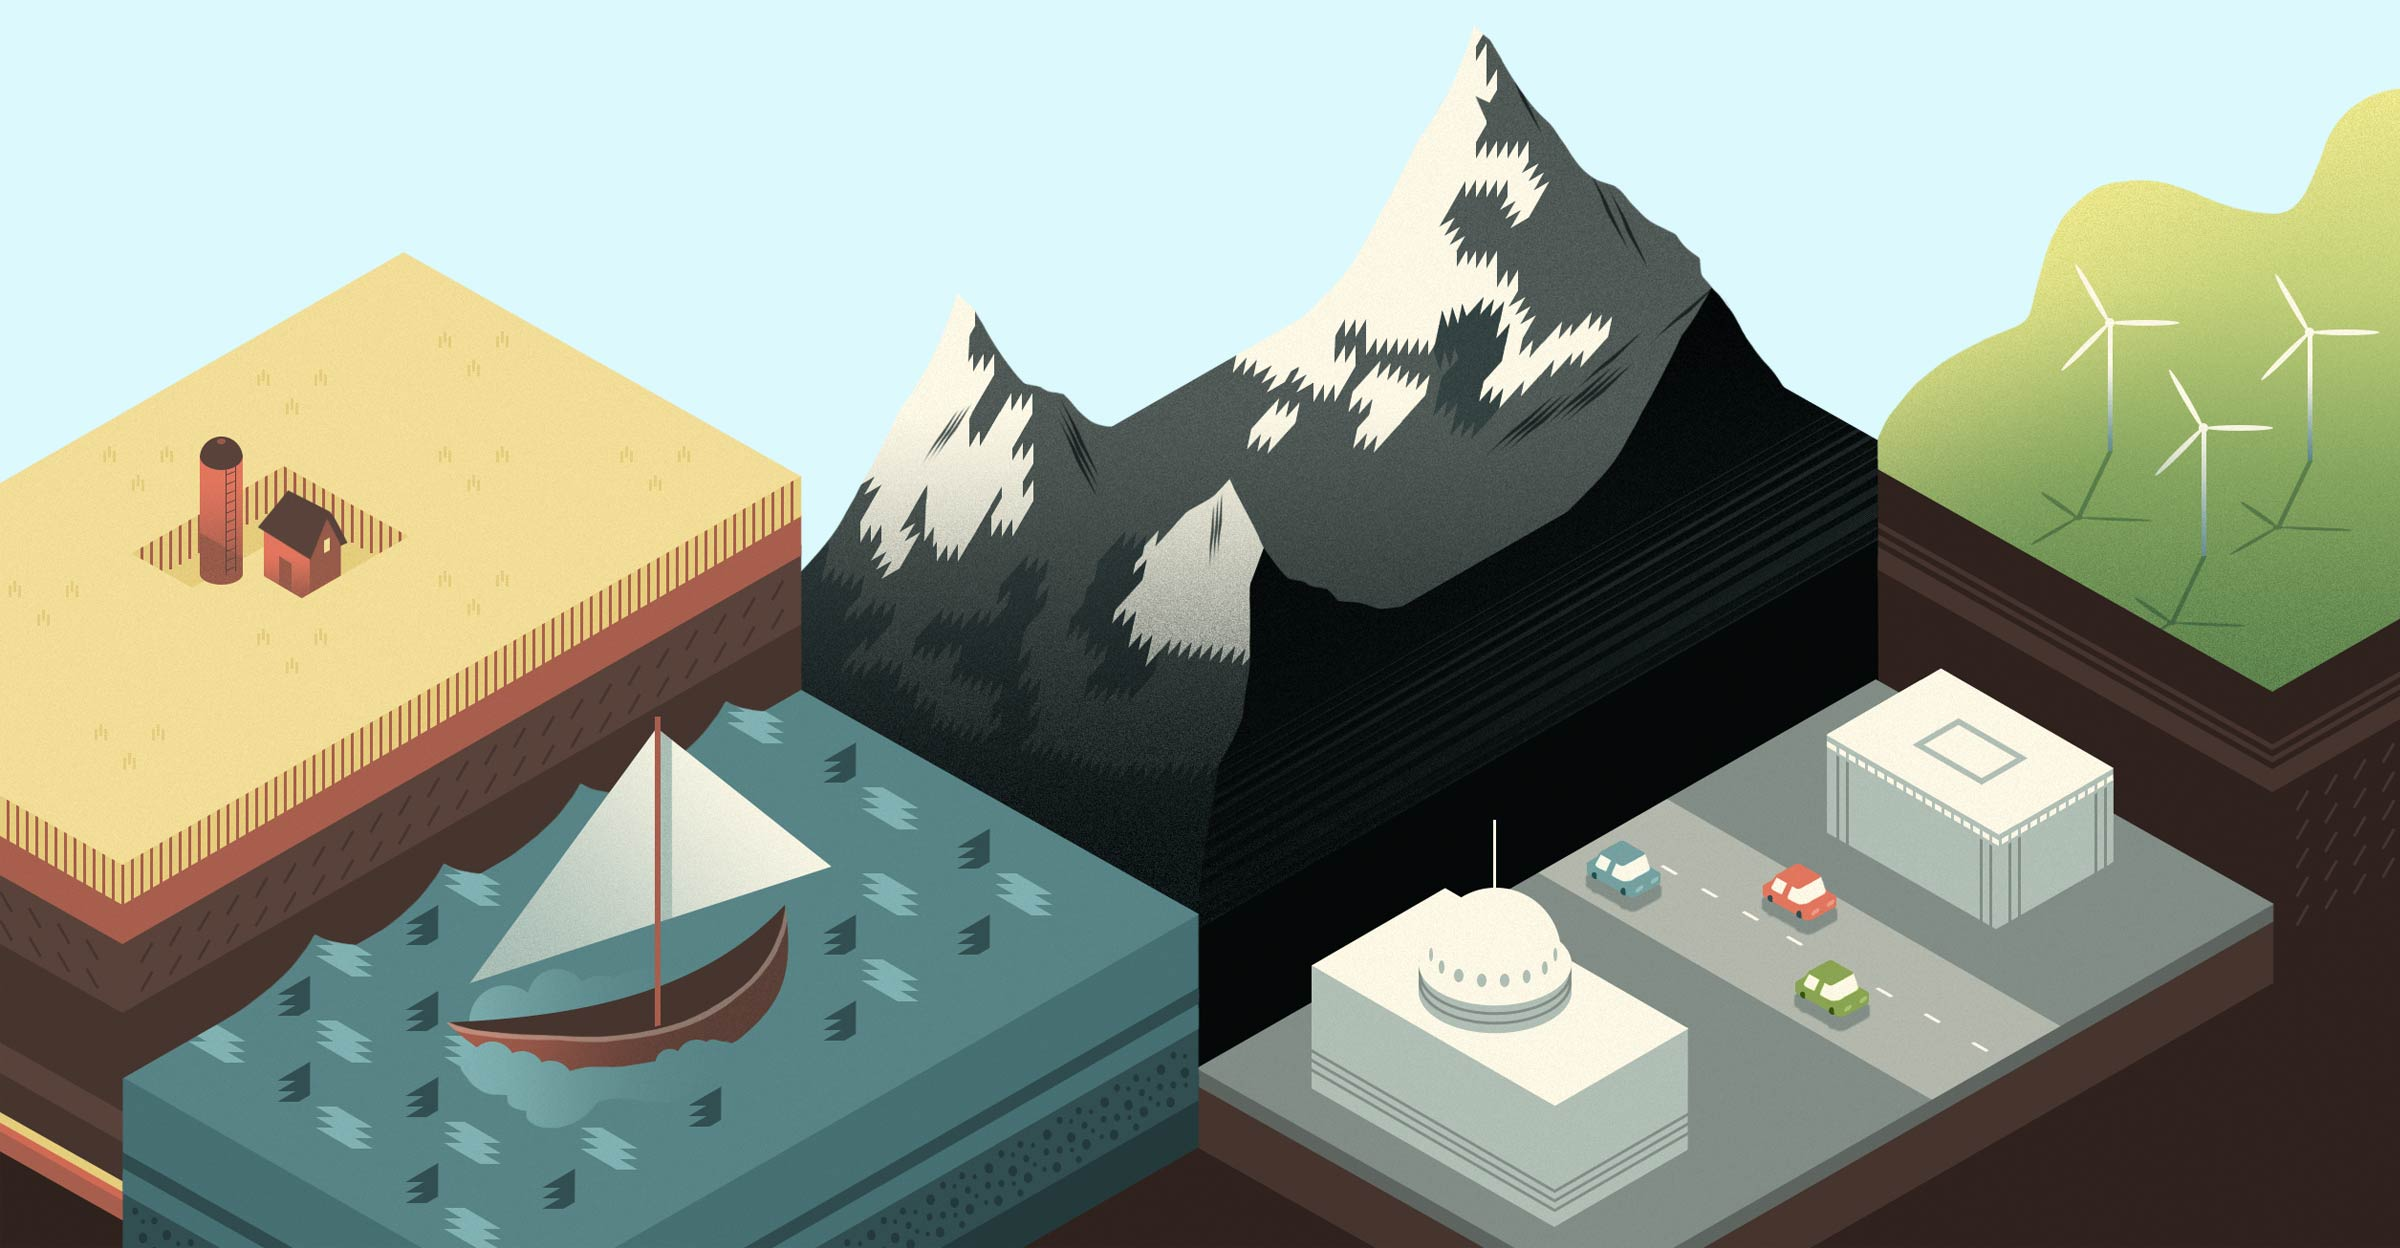
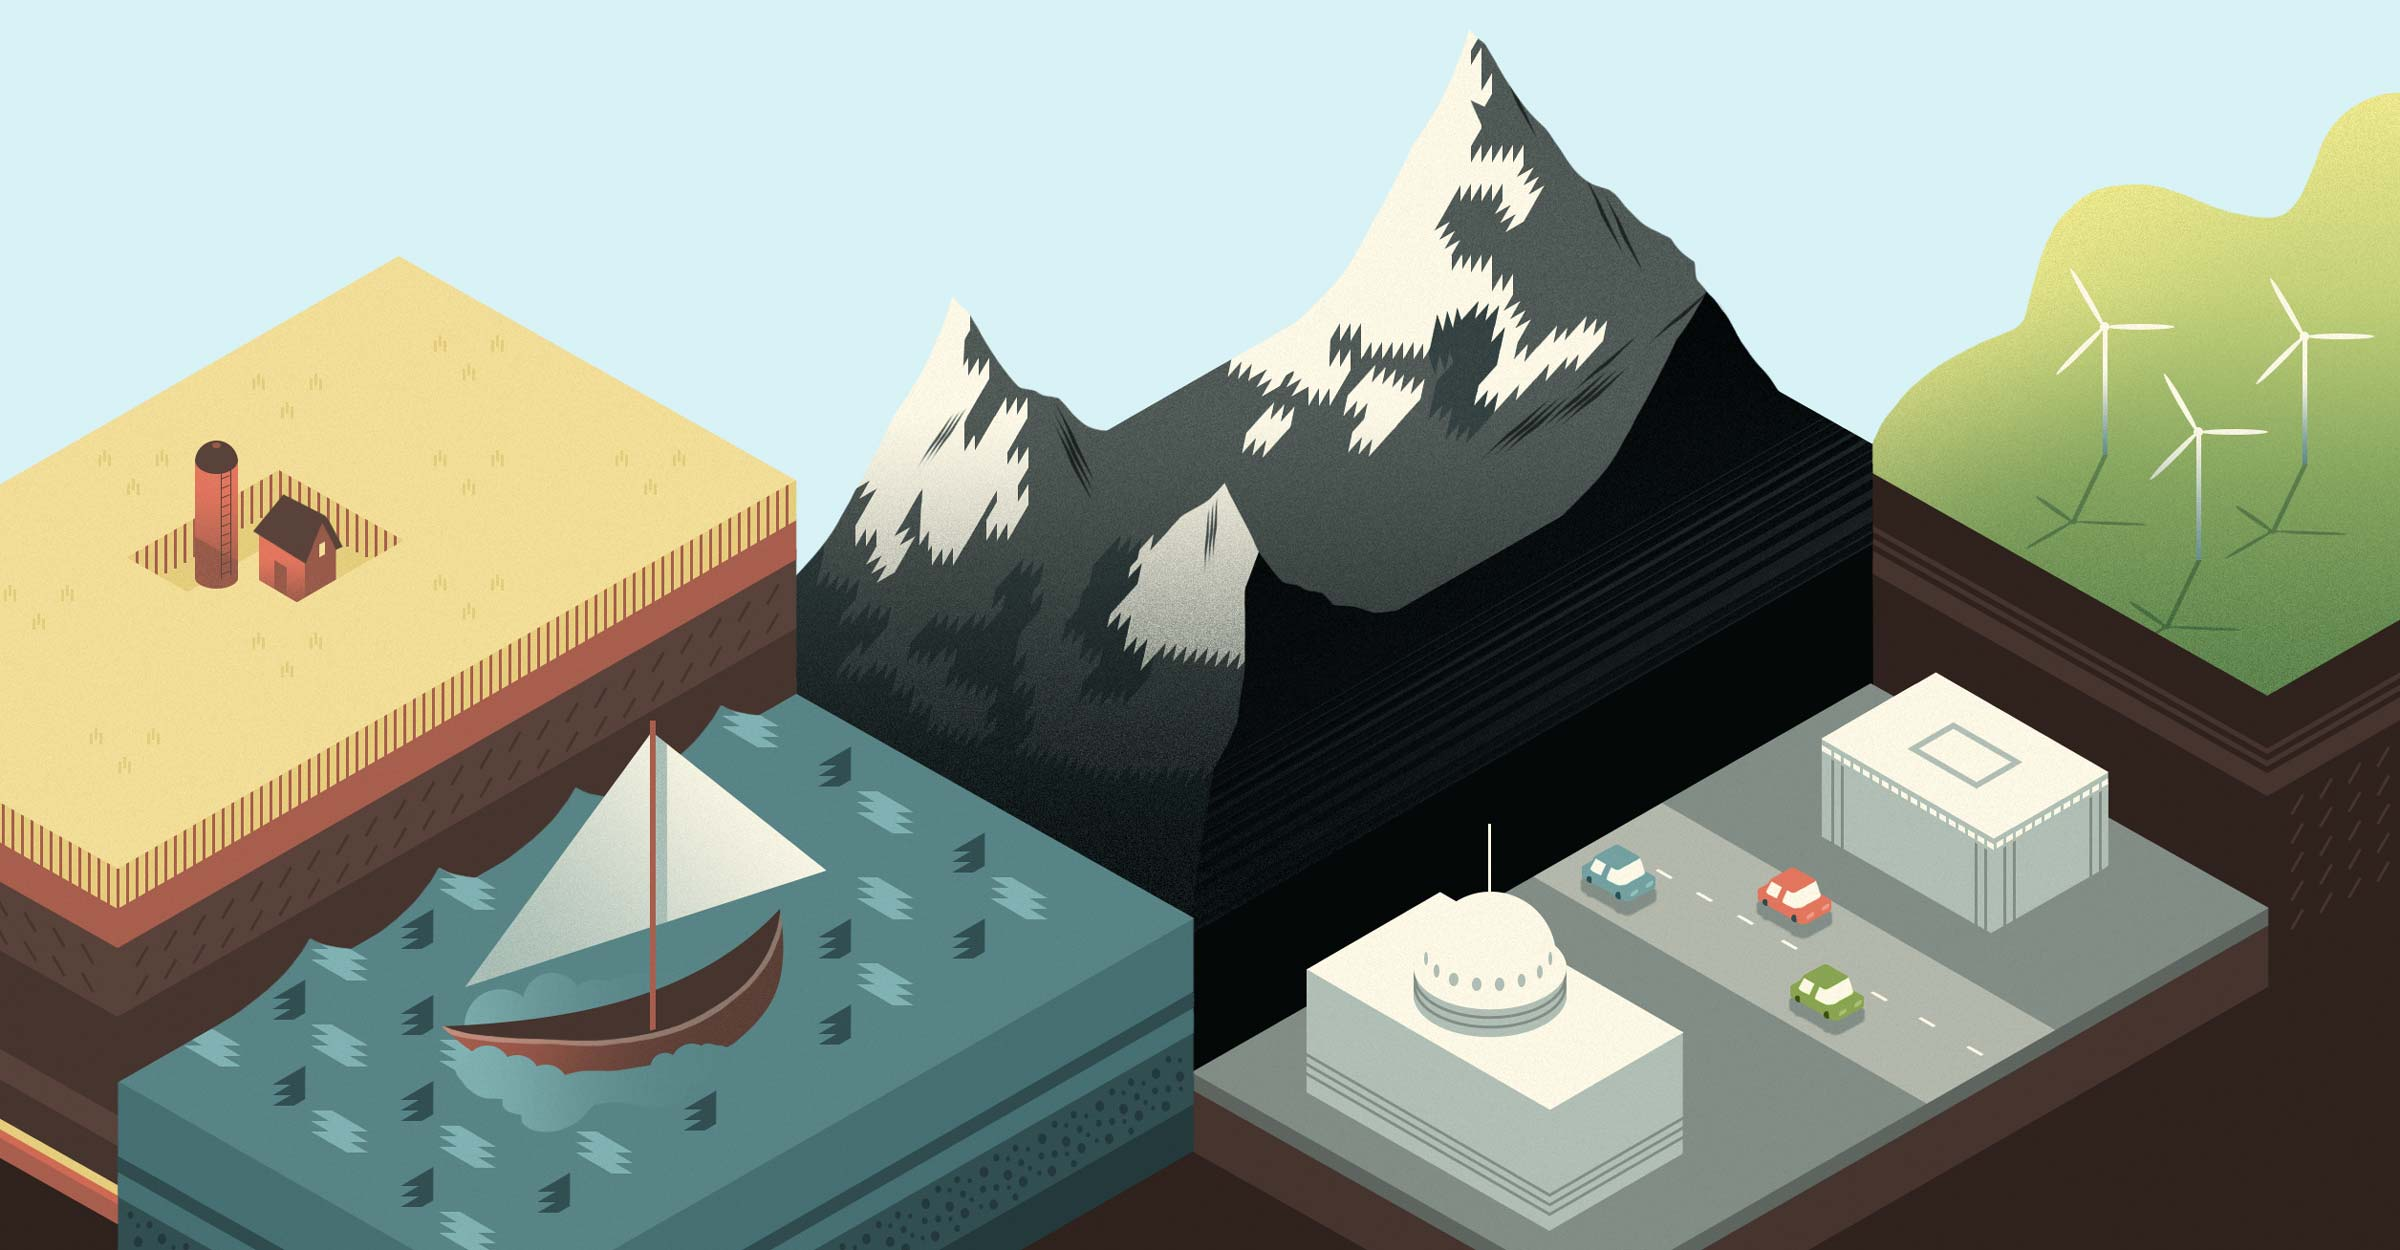
new background color grayblue #78

diff --git a/app/assets/stylesheets/structure.sass b/app/assets/stylesheets/structure.sass
@@ -1,53 +1,6 @@
-@import compass
+@import compass/reset
+@import compass/css3
 @import mixins
-
-/* http://meyerweb.com/eric/tools/css/reset/
- * v2.0 | 20110126
- * License: none (public domain)
-
-html, body, div, span, applet, object, iframe,
-h1, h2, h3, h4, h5, h6, p, blockquote, pre,
-a, abbr, acronym, address, big, cite, code,
-del, dfn, em, img, ins, kbd, q, s, samp,
-small, strike, strong, sub, sup, tt, var,
-b, u, i, center,
-dl, dt, dd, ol, ul, li,
-fieldset, form, label, legend,
-table, caption, tbody, tfoot, thead, tr, th, td,
-article, aside, canvas, details, embed,
-figure, figcaption, footer, header, hgroup,
-menu, nav, output, ruby, section, summary,
-time, mark, audio, video
-  margin: 0
-  padding: 0
-  border: 0
-  font-size: 100%
-  font: inherit
-  vertical-align: baseline
-
-/* HTML5 display-role reset for older browsers
-
-article, aside, details, figcaption, figure,
-footer, header, hgroup, menu, nav, section
-  display: block
-
-body
-  line-height: 1
-
-ol, ul
-  list-style: none
-
-blockquote, q
-  quotes: none
-
-blockquote:before, blockquote:after,
-q:before, q:after
-  content: ''
-  content: none
-
-table
-  border-collapse: collapse
-  border-spacing: 0
 
 .clear
   clear: both
@@ -56,7 +9,7 @@ table
   float: none
 
 body
-  background: #dcf9fd
+  background: #d8f2f6
   color: $darkblue
   font-family: helvetica, arial, verdana, sans-serif
 

diff --git a/app/assets/stylesheets/modules/splash.sass b/app/assets/stylesheets/modules/splash.sass
@@ -11,7 +11,6 @@
       color: #82b7c8
 
   background:
-    color: #DCF9FD
     image: url(/assets/footer_illustration.jpg)
     repeat: no-repeat
     position: 50% 160%
